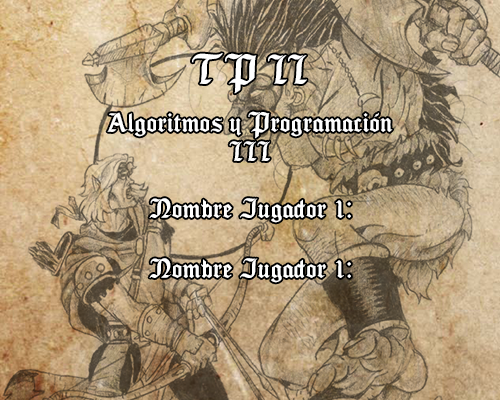
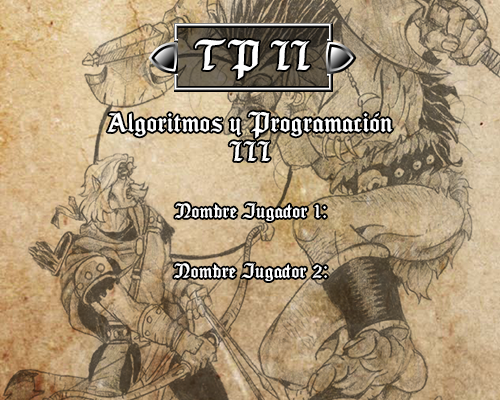
boton general de batallon y fix de la carátula

Changed region(s): [[0.3, 0.06, 0.72, 0.24], [0.3, 0.63, 0.72, 0.72], [0.3, 0.48, 0.72, 0.57]]

diff --git a/src/main/java/Algo3TP2/Vistas/PanelDeControlUnidadView/PanelDeControlSoldadoView.java b/src/main/java/Algo3TP2/Vistas/PanelDeControlUnidadView/PanelDeControlSoldadoView.java
@@ -5,8 +5,10 @@ import Algo3TP2.Modelos.Unidades.IUnidadDeAtaque;
 import Algo3TP2.Modelos.Unidades.Unidad;
 import Algo3TP2.Vistas.BotonesPanelDeControl.BotonDeAtaque;
 import Algo3TP2.Vistas.BotonesPanelDeControl.BotonDeBatallon;
+import javafx.geometry.Pos;
 import javafx.scene.image.Image;
 import Algo3TP2.Modelos.Unidades.Soldado;
+import javafx.scene.layout.VBox;
 
 public class PanelDeControlSoldadoView extends PanelDeControlUnidadMovibleView {
 
@@ -16,10 +18,15 @@ public class PanelDeControlSoldadoView extends PanelDeControlUnidadMovibleView {
         // Image formarBatallonImage = new
         // Image("file:src/resources/PanelDeControl/BotonesAcciones/batallon_formar_rojo.png");
 
+
         BotonDeAtaque botonDeAtaque = new BotonDeAtaque((IUnidadDeAtaque) unidad, armaImage);
         BotonDeBatallon botonFormarBatallon = new BotonDeBatallon((Soldado) unidad);
-        this.add(botonDeAtaque, 2, 0);
-        this.add(botonFormarBatallon, 2, 1);
+
+        VBox contenedorBotones = new VBox();
+        contenedorBotones.setAlignment(Pos.CENTER);
+        contenedorBotones.getChildren().addAll(botonDeAtaque, botonFormarBatallon);
+
+        this.add(contenedorBotones, 2, 0);
     }
 
 }

diff --git a/src/main/java/Algo3TP2/Vistas/BotonesPanelDeControl/BotonDeBatallon.java b/src/main/java/Algo3TP2/Vistas/BotonesPanelDeControl/BotonDeBatallon.java
@@ -9,10 +9,10 @@ import javafx.scene.image.Image;
 import javafx.scene.image.ImageView;
 
 public class BotonDeBatallon extends Button {
-    Image formarBatallon = new Image("file:src/resources/PanelDeControl/BotonesAcciones/batallon_formar_rojo.png");
+    Image formarBatallon = new Image("file:src/resources/PanelDeControl/BotonesAcciones/batallon_formar.png");
     // Image disolverBatallonAzul = new
     // Image("file:src/resources/PanelDeControl/BotonesAcciones/batallon_formar_azul.png");
-    Image disolverBatallon = new Image("file:src/resources/PanelDeControl/BotonesAcciones/batallon_disolver_rojo.png");
+    Image disolverBatallon = new Image("file:src/resources/PanelDeControl/BotonesAcciones/batallon_disolver.png");
 
     // Image formarBatalonAzul = new
     // Image("file:src/resources/PanelDeControl/BotonesAcciones/batallon_disolver_azul.png");
